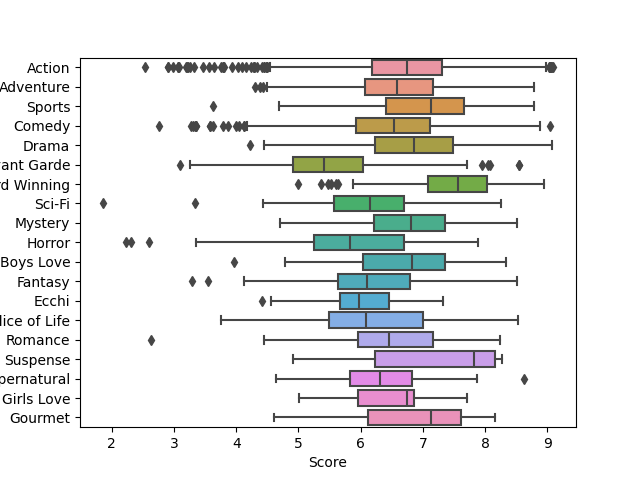
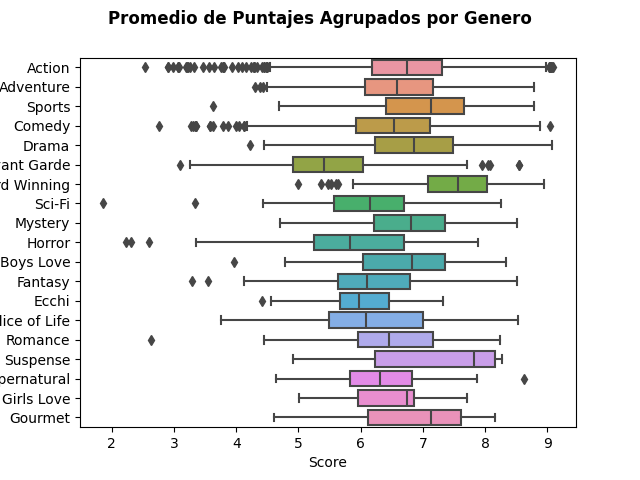
Cambios Extras / Practica 6 - Comienzo

Changed region(s): [[0.1562, 0.0, 0.8438, 0.0625]]

diff --git a/Practica_5.py b/Practica_5.py
@@ -1,10 +1,13 @@
 import pandas as pd
+from scipy.stats import f_oneway
 import statsmodels.api as sm
 from statsmodels.formula.api import ols
 
 df = pd.read_csv('DataSetClean.csv')
 
-def anova(df_aux: pd.DataFrame, str_ols: str):
+#------------------------------ ANOVA Forma - 1 ------------------------------------------------------------#
+#Comprobacion
+def comprobar(df_aux: pd.DataFrame, str_ols: str):
     modl = ols(str_ols, data=df_aux).fit()
     anova_df = sm.stats.anova_lm(modl, typ=2)
     if anova_df["PR(>F)"][0] < 0.005:
@@ -13,10 +16,90 @@ def anova(df_aux: pd.DataFrame, str_ols: str):
     else:
         print("No hay diferencias")
 
+#Comparando los promedios de puntaje, agrupando por Fecha y Generos 
 def anova_1():
     df_by_type = df.groupby(["Aired", "Genres"]).agg({"Score": "mean"})
     df_by_type.reset_index(inplace=True)
-    df_aux = df_by_type.rename(columns={"Aired": "Estreno"})
-    anova(df_aux, "Score ~ C(Estreno) + C(Genres)")
+    df_aux = df_by_type.rename(columns={"Aired": "Estreno", "Genres": "Generos"})
+    comprobar(df_aux, "Score ~ Estreno + Generos")
 
+#Comparando los promedios de puntaje, agrupando por Origen y Generos 
+def anova_2():
+    df_by_type = df.groupby(["Source", "Genres"]).agg({"Score": "mean"})
+    df_by_type.reset_index(inplace=True)
+    df_aux = df_by_type.rename(columns={"Source": "Tipos","Genres": "Generos"})
+    comprobar(df_aux, "Score ~ Tipos + Generos")
+
+#------------------------------ ANOVA Forma - 2 ------------------------------------------------------------#
+#Comprobacion
+def comprobar_2(resultado):
+    if resultado.pvalue < 0.05:
+        print("Hay diferencias significativas entre los grupos.\n")
+    else:
+        print("No hay diferencias significativas entre los grupos.\n")
+
+#Nota:Estas pruebas se hicieron en base a las Graficas de Bigote hechas en la practica pasada, buscando las semejanzas en varianza
+
+#Generos - Puntaje Promedio
+def anova_3():
+    grupos = df.groupby('Genres')['Score'].apply(list)
+    #Comparando Generos "Sobrenatual y Girls Love"
+    resultado = f_oneway(grupos[16], grupos[17])
+    print( " \n Comparando Generos 'Sobrenatual y Girls Love':" )
+    print(resultado)
+    comprobar_2(resultado)
+    #Comparando Generos "Romance y Gourmet"
+    resultado2 = f_oneway(grupos[14], grupos[18])
+    print(" \n Comparando Generos 'Romance y Gourmet':" )
+    print(resultado2)
+    comprobar_2(resultado2)
+    #Comparando Generos "Action y Adventure"
+    resultado3 = f_oneway(grupos[0], grupos[1])
+    print(" \n Comparando Generos 'Action y Adventure':" )
+    print(resultado3)
+    comprobar_2(resultado3)
+
+#Origen - Puntaje Promedio
+def anova_4():
+    grupos = df.groupby('Source')['Score'].apply(list)
+    #Comparando Origenes "Manga y Novel"
+    resultado = f_oneway(grupos[1], grupos[6])
+    print( " \n Comparando Generos 'Manga y Novel':" )
+    print(resultado)
+    comprobar_2(resultado)
+    #Comparando Origenes "Indeterminado y Picture Book"
+    resultado2 = f_oneway(grupos[8], grupos[9])
+    print(" \n Comparando Generos 'Otros y Picture Book':" )
+    print(resultado2)
+    comprobar_2(resultado2)
+    #Comparando Generos "Original y Manga"
+    resultado3 = f_oneway(grupos[0], grupos[1])
+    print(" \n Comparando Generos 'Original y Manga':" )
+    print(resultado3)
+    comprobar_2(resultado3)
+
+#Tipo de Visualizacion - Puntaje Promedio
+def anova_5():
+    grupos = df.groupby('Type')['Score'].apply(list)
+    #Comparando Tipo "OVA y Special"
+    resultado = f_oneway(grupos[2], grupos[3])
+    print( " \n Comparando Tipos 'OVA y Special':" )
+    print(resultado)
+    comprobar_2(resultado)
+    #Comparando Origenes "OVA y ONA"
+    resultado2 = f_oneway(grupos[2], grupos[4])
+    print(" \n Comparando Tipos 'OVA y ONA':" )
+    print(resultado2)
+    comprobar_2(resultado2)
+    #Comparando Generos "TV y Movie"
+    resultado3 = f_oneway(grupos[0], grupos[1])
+    print(" \n Comparando Tipos 'TV y Movie':" )
+    print(resultado3)
+    comprobar_2(resultado3)
+
+#Ejecuciones de los distintos ANOVA's creados (Recomendacion: ejecutar uno a la vez)
 anova_1()
+anova_2()
+anova_3()
+anova_4()
+anova_5()

diff --git a/Practica_4.py b/Practica_4.py
@@ -1,28 +1,80 @@
-import csv
 import pandas as pd
 import matplotlib.pyplot as plt
 import seaborn as sns
-import numpy as np
 
 df = pd.read_csv('DataSetClean.csv')
 
 #Grafica de Bigote, tomando los Puntajes otorgados a cada serie, agrupando por Genero
 sns.boxplot(x="Score", y="Genres", data=df)
+plt.suptitle("Promedio de Puntajes Agrupados por Genero", fontweight="bold")
 plt.savefig(f"Graficas_P4/GBigote_Puntajes-Genero.png")
 #plt.show()
 plt.gcf().clear()
 
-#Grafica de Bigote, tomando los Puntajes otorgados a cada serie, agrupando por Tipo de Visualizacion 
+#Grafica de Bigote, tomando los Puntajes otorgados a cada serie, agrupando por Origen de la Serie
 sns.boxplot(x="Score", y="Source", data=df)
+plt.suptitle("Promedio de Puntajes Agrupados por Tipo de Origen", fontweight="bold")
+plt.savefig(f"Graficas_P4/GBigote_Puntajes-Origen.png")
+#plt.show()
+plt.gcf().clear()
+
+#Grafica de Bigote, tomando los Puntajes otorgados a cada serie, agrupando por Tipo de Visualizacion
+sns.boxplot(x="Score", y="Type", data=df)
+plt.suptitle("Promedio de Puntaje Agrupados por Tipo de Visualizacion", fontweight="bold")
 plt.savefig(f"Graficas_P4/GBigote_Puntajes-Tipos.png")
 #plt.show()
 plt.gcf().clear()
 
+desfase = (0, 0, 0, 0, 0.1)
 #Grafica de Pastel, tomando en cuenta la catidad de Seguidores que tiene cada Tipo de Visualizacion
 df_v = df.groupby('Type')['Members'].sum()
-plot = df_v.plot.pie(y='Type', figsize=(10,10), autopct="%1.0f%%")
-resultado = df.groupby('Type')['Members'].sum()
-print(resultado)
+plot = df_v.plot.pie(y='Type', figsize=(10,10), autopct="%1.0f%%", startangle=140, explode=desfase)
+plt.suptitle("Cantidad de Seguidores Registrados Agrupados por Tipo de Visualizacion", fontweight="bold")
+plt.axis('equal')
 plt.savefig(f"Graficas_P4/GPastel_Seguidores-Tipos.png")
+#plt.show()
+plt.gcf().clear()
+
+#Grafica de Pastel, tomando en cuenta la catidad de Series que tiene cada Tipo de Visualizacion
+df_v = df.groupby('Type')['anime_id'].count()
+plot = df_v.plot.pie(y='Type', figsize=(10,10), autopct="%1.0f%%", startangle=100, explode=desfase)
+plt.suptitle("Cantidad de Series Registradas Agrupadas por Tipo de Visualizacion", fontweight="bold")
+plt.axis('equal')
+plt.savefig(f"Graficas_P4/GPastel_Series-Tipos.png")
+#plt.show()
+plt.gcf().clear()
+
+#Graficas conciderando el Top 100 del ranked 
+top = pd.read_csv('DataSetClean.csv').query('Rank <= 100')
+
+#Grafica de Bigote, tomando los Puntajes otorgados a cada serie, agrupando por Genero
+sns.boxplot(x="Score", y="Genres", data=top)
+plt.suptitle("Promedio de Puntaje Agrupados por Genero", fontweight="bold")
+plt.savefig(f"Graficas_P4/GBigote_Puntajes-Generos_Top100.png")
+#plt.show()
+plt.gcf().clear()
+
+#Grafica de Bigote, tomando los Puntajes otorgados a cada serie, agrupando por Tipo de Visualizacion
+sns.boxplot(x="Score", y="Type", data=top)
+plt.suptitle("Promedio de Puntaje Agrupados por Tipo de Visualizacion", fontweight="bold")
+plt.savefig(f"Graficas_P4/GBigote_Puntajes-Tipos_Top100.png")
+#plt.show()
+plt.gcf().clear()
+
+#Grafica de Pastel, tomando en cuenta la catidad de Series que tiene cada Tipo de Visualizacion
+df_v = top.groupby('Genres')['anime_id'].count()
+plot = df_v.plot.pie(y='Genres', figsize=(10,10), autopct="%1.0f%%", startangle=100)
+plt.suptitle("Cantidad de Series Registradas Agrupadas por Genero", fontweight="bold")
+plt.axis('equal')
+plt.savefig(f"Graficas_P4/GPastel_Series-Generos_Top100.png")
+#plt.show()
+plt.gcf().clear()
+
+#Grafica de Pastel, tomando en cuenta la catidad de Series que tiene cada Tipo de Visualizacion
+df_v = top.groupby('Type')['anime_id'].count()
+plot = df_v.plot.pie(y='Type', figsize=(10,10), autopct="%1.0f%%", startangle=100, explode=desfase)
+plt.suptitle("Cantidad de Series Registradas Agrupadas por Tipo de Visualizacion", fontweight="bold")
+plt.axis('equal')
+plt.savefig(f"Graficas_P4/GPastel_Series-Tipos_Top100.png")
 #plt.show()
 plt.gcf().clear()

diff --git a/Practica_6.py b/Practica_6.py
@@ -1,0 +1,17 @@
+import pandas as pd
+import seaborn as sns
+import matplotlib.pyplot as plt
+
+datos = pd.read_csv('DataSetClean.csv')
+datos = datos.where(datos["Type"] == 'Movie')   
+
+
+# Usa seaborn para crear un gráfico de dispersión con la línea de regresión
+sns.lmplot(x='Aired', y='Score', data=datos)
+# Muestra el gráfico
+plt.xlabel('Puntaje')
+plt.ylabel('Fecha Emision')
+plt.title('Regresión Lineal: Puntaje vs Fecha Emision')
+plt.show()
+#plt.savefig('RegresionLineal.png')
+plt.close()
